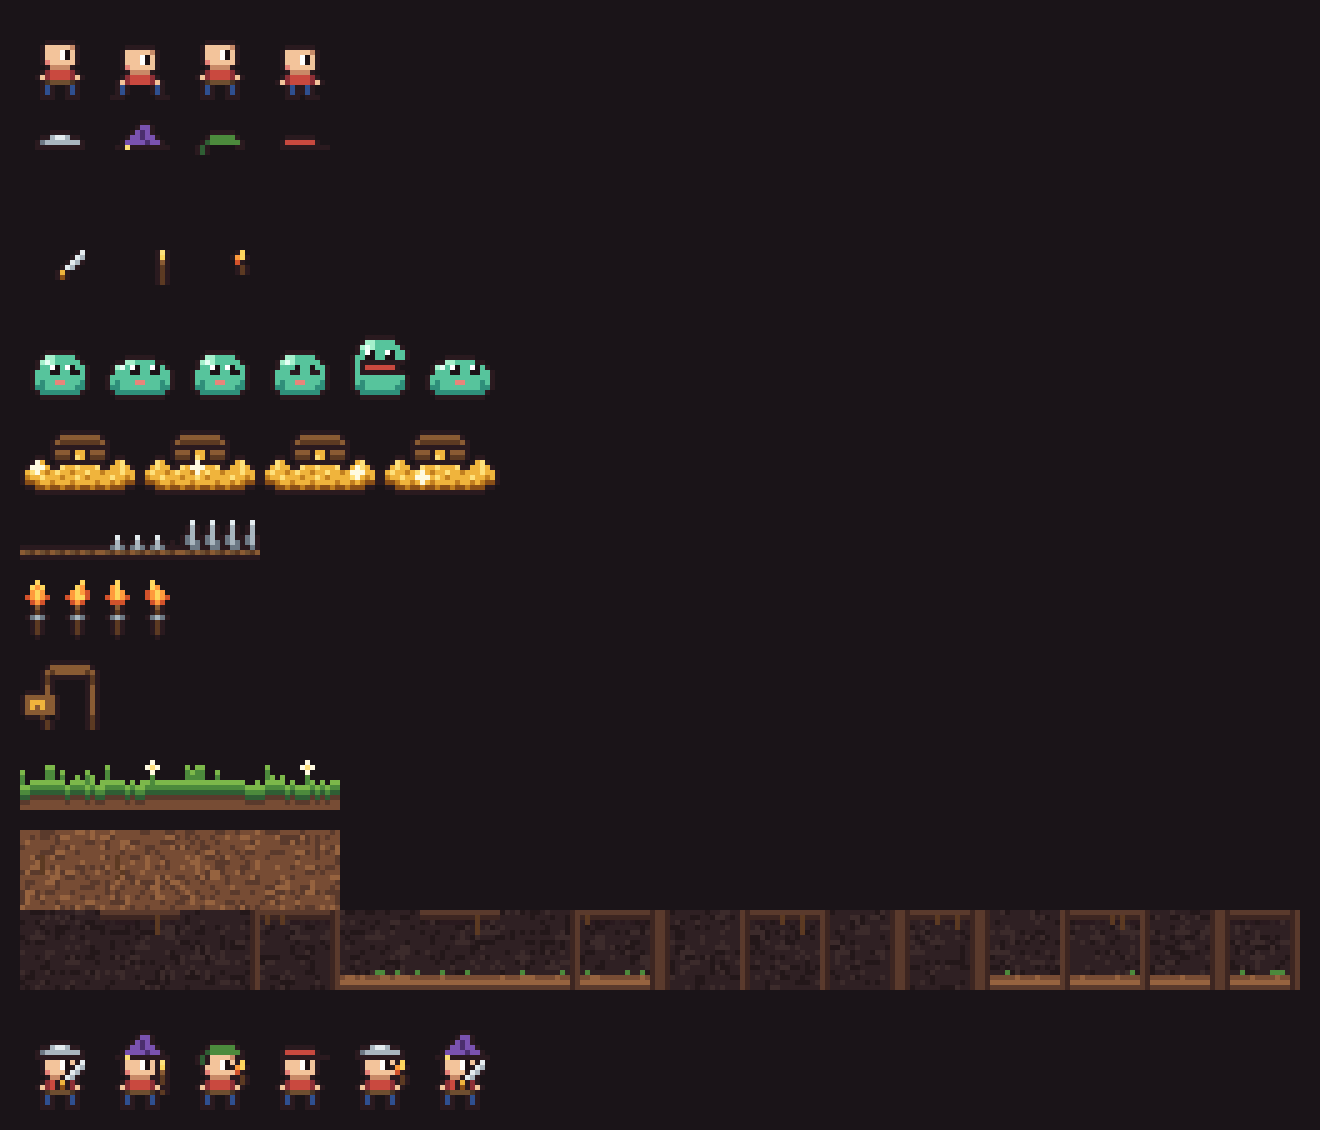
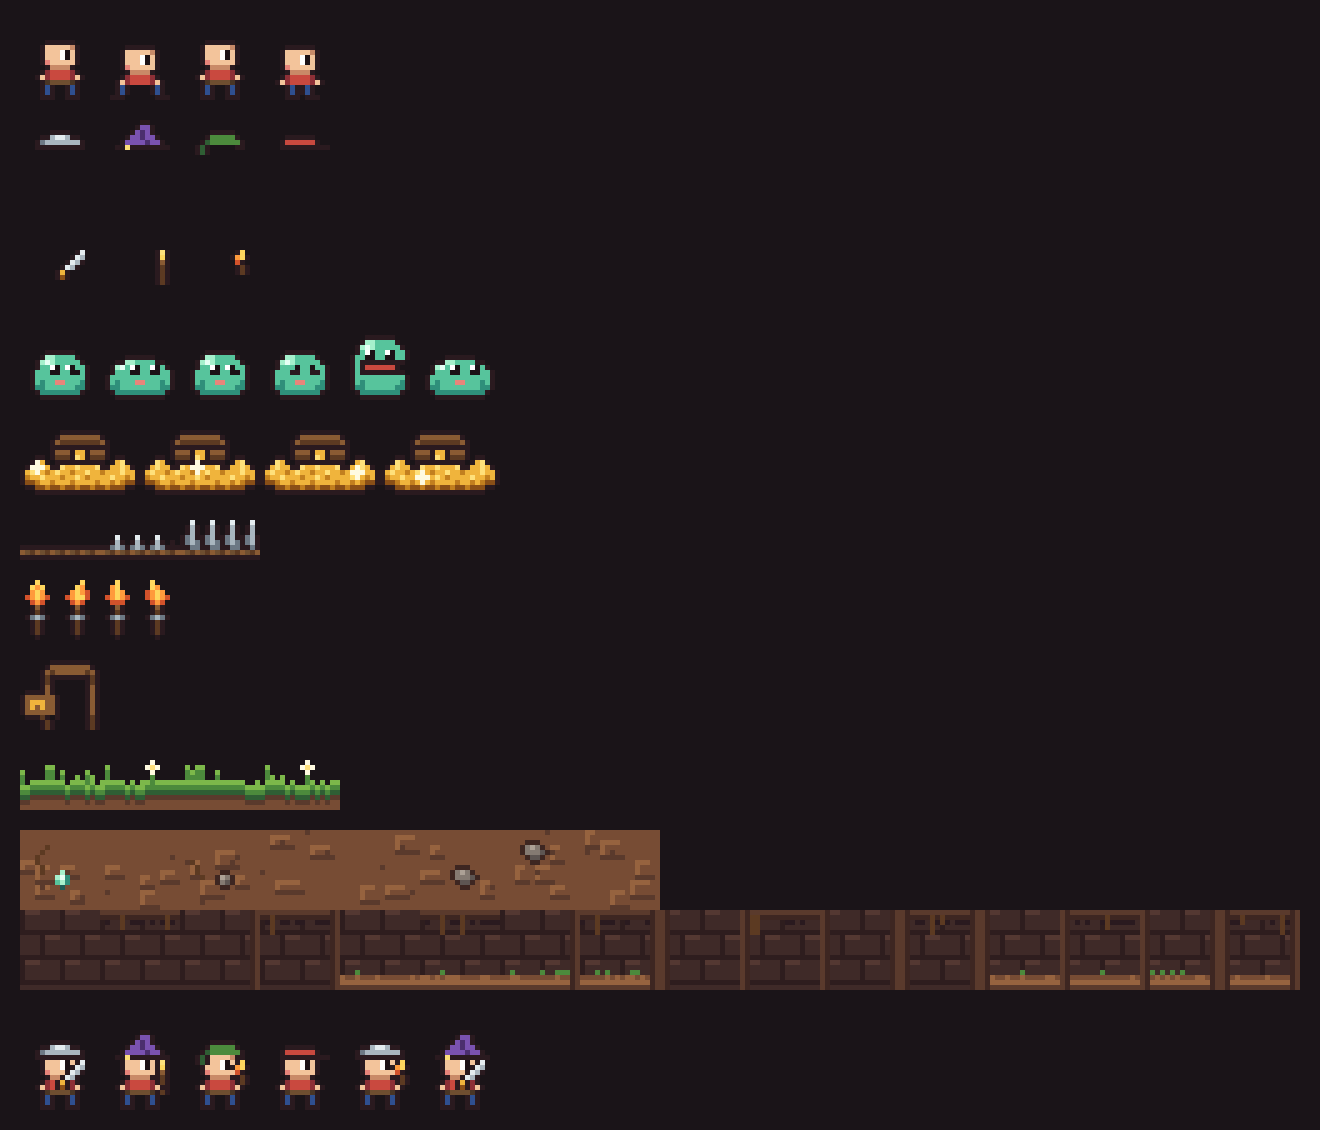
Daan: Het Hol kunst v2 (rustiger aarde, metselwerk in de gang, versiering, gloed)
Claude-Session: https://claude.ai/code/session_01RMWUyjkHpK4foYx2s2kMsm

Changed region(s): [[0.0, 0.7124, 0.6523, 0.8673], [0.6833, 0.8053, 0.9939, 0.8673]]

diff --git a/ontwerp/steam/kunst-bron/maak_kunst.py b/ontwerp/steam/kunst-bron/maak_kunst.py
@@ -20,7 +20,7 @@ P = {
     # aarde
     "1": hx("3d2621"), "2": hx("5a3a2c"), "3": hx("774c34"), "4": hx("96633f"), "5": hx("b5804f"),
     # holwand (achter de gang)
-    "w": hx("231719"), "W": hx("2f2023"), "v": hx("3c2b2b"),
+    "w": hx("2e1d1e"), "W": hx("3f2a28"), "v": hx("543832"), "V": hx("6a4838"),
     # steen
     "7": hx("5d5552"), "8": hx("847a72"), "9": hx("aca196"),
     # gras en mos
@@ -69,22 +69,36 @@ OPP = 12   # hoogte van het maaiveld (gras) boven de eerste aardelaag
 def aarde_cel(rnd, im, ox, oy):
     for y in range(CEL):
         for x in range(CEL):
-            v = rnd.random()
-            c = "3" if v < 0.62 else ("2" if v < 0.86 else "4")
-            im.putpixel((ox + x, oy + y), P[c])
-    # klonten en steentjes
-    for _ in range(rnd.randint(1, 3)):
-        x, y = rnd.randint(1, 13), rnd.randint(1, 13)
-        for dx, dy, c in ((0, 0, "4"), (1, 0, "4"), (0, 1, "2"), (1, 1, "2")):
-            im.putpixel((ox + x + dx, oy + y + dy), P[c])
-    if rnd.random() < 0.45:
-        x, y = rnd.randint(2, 11), rnd.randint(2, 11)
-        steen = [".88.", "8997", "7887", ".77."]
+            im.putpixel((ox + x, oy + y), P["3"])
+    # kluiten: blobje met licht linksboven en schaduw rechtsonder
+    for _ in range(rnd.randint(3, 5)):
+        x, y = rnd.randint(0, 12), rnd.randint(0, 12); w, h = rnd.randint(2, 4), rnd.randint(2, 3)
+        for yy in range(h):
+            for xx in range(w):
+                c = "4" if (yy == 0 or xx == 0) else "3"
+                im.putpixel((ox + (x + xx) % CEL, oy + (y + yy) % CEL), P[c])
+        for xx in range(w): im.putpixel((ox + (x + xx) % CEL, oy + (y + h) % CEL), P["2"])
+        im.putpixel((ox + (x + w) % CEL, oy + (y + h) % CEL), P["2"])
+    for _ in range(rnd.randint(2, 4)):
+        im.putpixel((ox + rnd.randint(0, 15), oy + rnd.randint(0, 15)), P["2"])
+    k = rnd.random()
+    if k < 0.40:
+        x, y = rnd.randint(2, 10), rnd.randint(2, 10)
+        steen = [".kkk.", "k898k", "k8887k", ".k77k", "..kk."] if rnd.random() < 0.5 else [".kk.", "k98k", "k87k", ".kk."]
         for yy, r in enumerate(steen):
             for xx, c in enumerate(r):
+                if c != "." and x + xx < 16 and y + yy < 16: im.putpixel((ox + x + xx, oy + y + yy), P[c if c != "k" else "1"])
+    elif k < 0.44:   # botje (zeldzaam)
+        x, y = rnd.randint(2, 9), rnd.randint(3, 11)
+        for xx, c in enumerate("jIIIIj"): im.putpixel((ox + x + xx, oy + y), P[c])
+        for dx in (0, 5):
+            im.putpixel((ox + x + dx, oy + y - 1), P["j"]); im.putpixel((ox + x + dx, oy + y + 1), P["I"])
+    elif k < 0.50:   # kristalletje
+        x, y = rnd.randint(3, 11), rnd.randint(3, 10)
+        for yy, r in enumerate([".N.", "NqM", "nNM", ".m."]):
+            for xx, c in enumerate(r):
                 if c != ".": im.putpixel((ox + x + xx, oy + y + yy), P[c])
-        im.putpixel((ox + x + 1, oy + y + 4), P["1"]); im.putpixel((ox + x + 2, oy + y + 4), P["1"])
-    if rnd.random() < 0.25:   # worteltje
+    if rnd.random() < 0.3:   # worteltje
         x = rnd.randint(2, 13); y = rnd.randint(0, 6)
         for i in range(rnd.randint(3, 6)):
             im.putpixel((ox + x, oy + y + i), P["u"])
@@ -94,14 +108,16 @@ def gang_cel(rnd, im, ox, oy, n, e, s, w):
     """n,e,s,w = True als de buur aarde is (dan komt er een rand)."""
     for y in range(CEL):
         for x in range(CEL):
-            v = rnd.random()
-            c = "W" if v < 0.7 else ("w" if v < 0.9 else "v")
-            im.putpixel((ox + x, oy + y), P[c])
-    # stenen in de achterwand, heel zacht
-    for _ in range(2):
-        x, y = rnd.randint(2, 12), rnd.randint(4, 10)
-        for dx in range(3): im.putpixel((ox + x + dx, oy + y), P["v"])
-        im.putpixel((ox + x + 1, oy + y - 1), P["v"])
+            im.putpixel((ox + x, oy + y), P["W"])
+    # gestapelde stenen in de achterwand (metselwerk, rij van 5 hoog)
+    for ry, y0 in enumerate((0, 5, 10)):
+        off = (ry * 4) % 8
+        for x in range(CEL):
+            if (x + off) % 8 == 0:
+                for y in range(y0, min(y0 + 5, CEL)): im.putpixel((ox + x, oy + y), P["w"])
+            else:
+                im.putpixel((ox + x, oy + min(y0 + 4, 15)), P["w"])
+                if (x + off) % 8 in (1, 2, 3): im.putpixel((ox + x, oy + y0), P["v"])
     if n:   # plafond: aarderand, schaduw, hangende worteltjes
         for x in range(CEL):
             im.putpixel((ox + x, oy), P["2"]); im.putpixel((ox + x, oy + 1), P["1"])
@@ -124,7 +140,7 @@ def gang_cel(rnd, im, ox, oy, n, e, s, w):
 def maak_tegels():
     # rij 0: 4 aardevarianten; rij 1: 16 gangvarianten (index = n*1 + e*2 + s*4 + w*8)
     im = Image.new("RGBA", (CEL * 16, CEL * 2), (0, 0, 0, 0))
-    for i in range(4): aarde_cel(random.Random(10 + i), im, i * CEL, 0)
+    for i in range(8): aarde_cel(random.Random(10 + i), im, i * CEL, 0)
     for m in range(16):
         gang_cel(random.Random(100 + m), im, m * CEL, CEL, bool(m & 1), bool(m & 2), bool(m & 4), bool(m & 8))
     opslaan(im, "tegels.png")
@@ -313,15 +329,44 @@ def held(lijven, hoeden, wapens, fr, hoed, wapen):
         h = Image.new("RGBA", (16, 16), (0, 0, 0, 0)); h.paste(hoeden[hoed], (0, bob)); im = Image.alpha_composite(im, h)
     return im
 
+
+# ---------- versiering, 16 x 16 per stuk ----------
+DECO = {
+    "paddenstoel": ["................"]*7 + ["....kkk.........", "...kRjRk..kk....", "..kRRRjRkkRjk...", "..kkkkkkkkkkk...", "....ksk...kk....", "....ksk...kk....", "...kSSSk.kSk....", "...kkkkk.kkk...."],
+    "lichtzwam": ["................"]*6 + ["...kkkk.........", "..kNqqNk........", ".kNNqNNNk.......", ".kkMMMMkk..kkk..", "...kqqk...kNqNk.", "...kqNk...kkMkk.", "...kqNk....kqk..", "...kNNk.kk.kNk..", "..kkNMkkNqkkMk..", ".kkkkkkkkkkkkkk."],
+    "ton":  ["................"]*4 + ["....kkkkkkk.....", "...kUUUUUUUk....", "...kiiiiiiik....", "..kUuUUUUUuUk...", "..kUuUUUUUuUk...", "..kiiiiiiiiik...", "..kUuUUUUUuUk...", "..kUuUUUUUuUk...", "...kiiiiiiik....", "...kUUUUUUUk....", "....kkkkkkk.....", "................"],
+    "kist": ["................"]*6 + ["..kkkkkkkkkk....", "..kUUUUUUUUk....", "..kuUkkkkUuk....", "..kUkUUUUkUk....", "..kUUkUUkUUk....", "..kUUUkkUUUk....", "..kUkUUUUkUk....", "..kuUkkkkUuk....", "..kUUUUUUUUk....", "..kkkkkkkkkk...."],
+    "schedel": ["................"]*9 + ["....kkkk........", "...kjjjjk.......", "...kekjek.......", "...kjjjjk..kk...", "....kIjk..kjjk..", "....kkkk.kjIIjk.", ".........kkkkkk."],
+    "kristal": ["................"]*5 + ["......k.........", ".....kqk...k....", ".....kNk..kqk...", "..k..knMk.kNk...", ".kqk.knMk.kNMk..", ".kNk.kNMkknMk...", ".kNMkknMkknMk...", "..kMkknMkkMk....", "...kmkMkmkk.....", "...kkkkkkk......", "................"],
+    "spinrag": ["9...........9...", ".9.......9.9....", "..9...9.9..9....", "..9.9..9...9....", "...9...9..9.....", "....9..9.9......", ".....9.99.......", "......9.........", "................", "................", "................", "................", "................", "................", "................", "................"],
+    "vaandel": ["kkkkkkkkkkkkkkkk", "UUUUUUUUUUUUUUUU", "kkk..........kkk", "..krrrrrrrrrrk..", "..krRRRRRRRRrk..", "..krRRyyRRRRrk..", "..krRyYyRRRRrk..", "..krRRyyRRRRrk..", "..krRRRRRRRRrk..", "..krRRRRRRRRrk..", "..krrrrrrrrrrk..", "...krrkkkkrrk...", "....kk....kk....", "................", "................", "................"],
+}
+def maak_deco():
+    frames = [sprite(DECO[n]) for n in DECO]
+    opslaan(strip(frames), "versiering.png"); return dict(zip(DECO, frames))
+
+def maak_gloed(r=26):
+    # warm licht rond fakkels en lichtzwammen; in Godot als sprite met optellen (blend add) of als PointLight2D-textuur
+    im = Image.new("RGBA", (r * 2, r * 2), (0, 0, 0, 0))
+    for y in range(r * 2):
+        for x in range(r * 2):
+            d = ((x - r + 0.5) ** 2 + (y - r + 0.5) ** 2) ** 0.5 / r
+            if d < 1:
+                # in treden (pixel art, geen zachte waas): 3 ringen
+                a = 70 if d < 0.4 else (42 if d < 0.7 else 20)
+                im.putpixel((x, y), (255, 170, 80, a))
+    opslaan(im, "gloed.png"); return im
+
 # ---------- alles maken ----------
 tegels = maak_tegels(); gras = maak_gras(); fakkel = maak_fakkel(); schat = maak_schat()
 slijm = maak_slijm(); val = maak_val(); lijven, hoeden, wapens = maak_held()
 ingang = sprite(INGANG); opslaan(ingang, "ingang.png")
+deco = maak_deco(); gloed = maak_gloed()
 
 json.dump({
     "spelpixel": "1 spelpixel = 2 schermpixels bij 100% Windows, 3 bij 150%, 4 bij 200% (altijd hele schaal, filter nearest)",
     "cel": 16, "maaiveld_hoogte": OPP,
-    "tegels.png": {"rij0": "aarde, 4 varianten (kies willekeurig per cel, vast zaad)", "rij1": "gang, 16 varianten, index = n*1 + e*2 + s*4 + w*8 waarbij een bit 1 is als die buur AARDE is"},
+    "tegels.png": {"rij0": "aarde, 8 varianten (kies willekeurig per cel, vast zaad)", "rij1": "gang, 16 varianten, index = n*1 + e*2 + s*4 + w*8 waarbij een bit 1 is als die buur AARDE is"},
     "gras.png": {"frame": [16, 12], "varianten": 4, "plek": "boven de bovenste aardelaag"},
     "ingang.png": {"frame": [20, 14], "anker": "onderkant op de grasrand, poortje boven de ingang-cel"},
     "fakkel.png": {"frame": [8, 12], "frames": 4, "fps": 6, "plek": "aan de wand van een gang, alleen bij de ingang en de schatkamer"},
@@ -363,7 +408,7 @@ def voorbeeld(breedte_cellen=60, schaal=2, naam="voorbeeld-strook.png"):
                 m = int(n) | int(e) << 1 | int(s) << 2 | int(w) << 3
                 t = tegels.crop((m * CEL, CEL, m * CEL + CEL, 2 * CEL))
             else:
-                v = rnd.randint(0, 3); t = tegels.crop((v * CEL, 0, v * CEL + CEL, CEL))
+                v = rnd.randint(0, 7); t = tegels.crop((v * CEL, 0, v * CEL + CEL, CEL))
             im.paste(t, (x, y))
     # gras ingang weg (gat), poortje
     for xx in range(ing * CEL, ing * CEL + CEL):
@@ -372,6 +417,14 @@ def voorbeeld(breedte_cellen=60, schaal=2, naam="voorbeeld-strook.png"):
     def zet(sp, x, y): im.paste(sp, (int(x), int(y)), sp)
     vloer1 = OPP + 2 * CEL - 3   # onderkant van rij 1, op de vloer
     vloer2 = OPP + 3 * CEL - 3
+    # versiering op de vloer en aan het plafond
+    plaf1 = OPP + CEL
+    for cx, n in ((9, "ton"), (13, "paddenstoel"), (17, "schedel"), (23, "lichtzwam"), (28, "kist"), (31, "paddenstoel"), (38, "kristal"), (42, "lichtzwam")):
+        zet(deco[n], cx * CEL, vloer1 - 16 + 1)
+    for cx, n in ((19, "lichtzwam"), (35, "kristal"), (14, "kristal")):
+        zet(deco[n], cx * CEL, vloer2 - 16 + 1)
+    for cx in (12, 27, 41): zet(deco["spinrag"], cx * CEL, plaf1)
+    zet(deco["vaandel"], 35 * CEL, OPP + CEL)
     zet(fakkel[1], 8 * CEL + 4, OPP + CEL + 1)
     zet(fakkel[2], 33 * CEL + 4, OPP + CEL + 1)
     zet(schat[0], 36 * CEL - 4, vloer2 - 16 + 1)
@@ -383,6 +436,26 @@ def voorbeeld(breedte_cellen=60, schaal=2, naam="voorbeeld-strook.png"):
     zet(held(lijven, hoeden, wapens, 1, 1, 1), 15 * CEL - 4, vloer1 - 16 + 1)
     zet(held(lijven, hoeden, wapens, 2, 2, 2), 24 * CEL + 2, vloer1 - 16 + 1)
     h4 = held(lijven, hoeden, wapens, 3, 3, None).transpose(Image.FLIP_LEFT_RIGHT); zet(h4, 32 * CEL, vloer1 - 16 + 1)
+    # licht erbovenop (optellen)
+    licht = Image.new("RGBA", im.size, (0, 0, 0, 0))
+    for (lx, ly) in ((8 * CEL + 8, OPP + CEL + 4), (33 * CEL + 8, OPP + CEL + 4), (37 * CEL, vloer2 - 6)):
+        licht.alpha_composite(gloed, (lx - gloed.width // 2, ly - gloed.height // 2))
+    for (lx, ly) in ((23 * CEL + 8, vloer1 - 4), (42 * CEL + 8, vloer1 - 4), (19 * CEL + 8, vloer2 - 4)):
+        g2 = gloed.resize((32, 32), Image.NEAREST)
+        px = g2.load()
+        for yy in range(32):
+            for xx in range(32):
+                r_, g_, b_, a_ = px[xx, yy]; px[xx, yy] = (110, 255, 200, a_)
+        licht.alpha_composite(g2, (lx - 16, ly - 16))
+    import numpy as np
+    a = np.asarray(im).astype(np.int32); l = np.asarray(licht).astype(np.int32)
+    gm = np.zeros((H, W, 1), dtype=bool)
+    for r in range(3):
+        for c in range(breedte_cellen):
+            if gang[r][c]: gm[OPP + r * CEL:OPP + (r + 1) * CEL, c * CEL:(c + 1) * CEL] = True
+    gang_masker = gm
+    a[..., :3] = np.clip(a[..., :3] + (l[..., :3] * l[..., 3:4]) // 255, 0, 255) * gang_masker + a[..., :3] * (~gang_masker)
+    im = Image.fromarray(a.astype(np.uint8), "RGBA")
     groot = im.resize((W * schaal, H * schaal), Image.NEAREST)
     groot.save(os.path.join(HIER, naam))
     return groot
